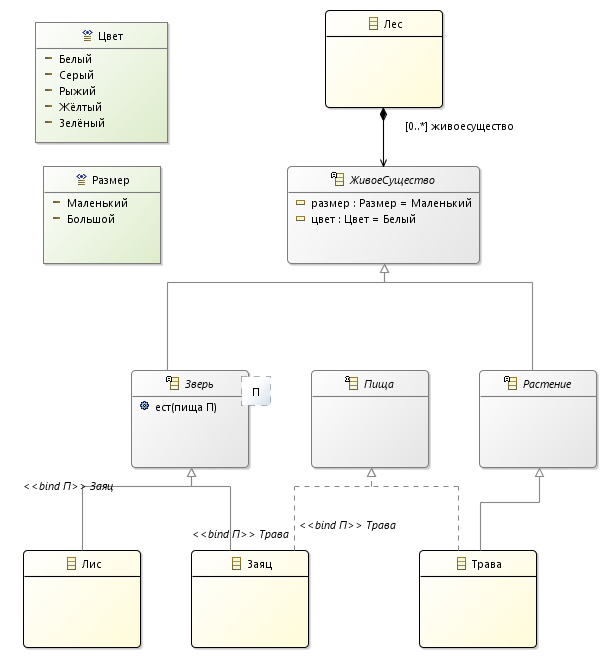
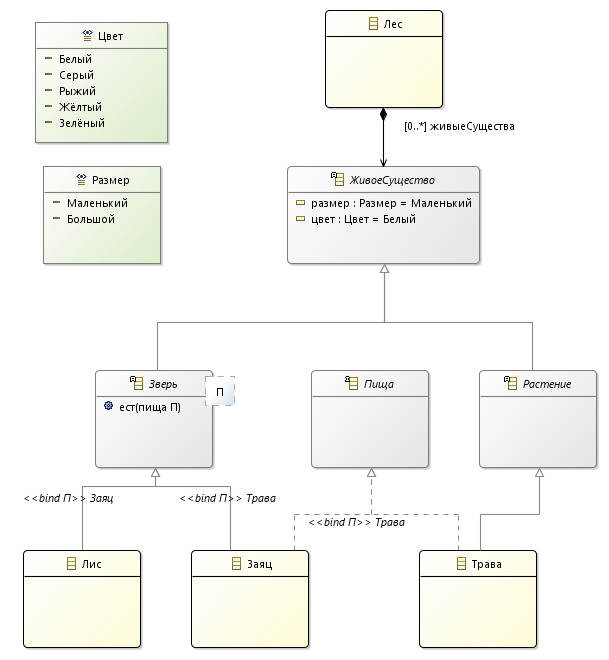
Разные улучшения.

diff --git a/org.nasdanika.nature/src/org/nasdanika/nature/impl/NaturePackageImpl.java b/org.nasdanika.nature/src/org/nasdanika/nature/impl/NaturePackageImpl.java
@@ -178,7 +178,7 @@ public class NaturePackageImpl extends EPackageImpl implements NaturePackage {
 	 * <!-- end-user-doc -->
 	 * @generated
 	 */
-	public EReference getЛес_Живоесущество() {
+	public EReference getЛес_ЖивыеСущества() {
 		return (EReference)лесEClass.getEStructuralFeatures().get(0);
 	}
 
@@ -319,7 +319,7 @@ public class NaturePackageImpl extends EPackageImpl implements NaturePackage {
 
 		// Create classes and their features
 		лесEClass = createEClass(ЛЕС);
-		createEReference(лесEClass, ЛЕС__ЖИВОЕСУЩЕСТВО);
+		createEReference(лесEClass, ЛЕС__ЖИВЫЕ_СУЩЕСТВА);
 
 		живоеСуществоEClass = createEClass(ЖИВОЕ_СУЩЕСТВО);
 		createEAttribute(живоеСуществоEClass, ЖИВОЕ_СУЩЕСТВО__РАЗМЕР);
@@ -391,7 +391,7 @@ public class NaturePackageImpl extends EPackageImpl implements NaturePackage {
 
 		// Initialize classes, features, and operations; add parameters
 		initEClass(лесEClass, Лес.class, "Лес", !IS_ABSTRACT, !IS_INTERFACE, IS_GENERATED_INSTANCE_CLASS);
-		initEReference(getЛес_Живоесущество(), this.getЖивоеСущество(), null, "живоесущество", null, 0, -1, Лес.class, !IS_TRANSIENT, !IS_VOLATILE, IS_CHANGEABLE, IS_COMPOSITE, !IS_RESOLVE_PROXIES, !IS_UNSETTABLE, IS_UNIQUE, !IS_DERIVED, IS_ORDERED);
+		initEReference(getЛес_ЖивыеСущества(), this.getЖивоеСущество(), null, "живыеСущества", null, 0, -1, Лес.class, !IS_TRANSIENT, !IS_VOLATILE, IS_CHANGEABLE, IS_COMPOSITE, !IS_RESOLVE_PROXIES, !IS_UNSETTABLE, IS_UNIQUE, !IS_DERIVED, IS_ORDERED);
 
 		initEClass(живоеСуществоEClass, ЖивоеСущество.class, "ЖивоеСущество", IS_ABSTRACT, !IS_INTERFACE, IS_GENERATED_INSTANCE_CLASS);
 		initEAttribute(getЖивоеСущество_Размер(), this.getРазмер(), "размер", null, 0, 1, ЖивоеСущество.class, !IS_TRANSIENT, !IS_VOLATILE, IS_CHANGEABLE, !IS_UNSETTABLE, !IS_ID, IS_UNIQUE, !IS_DERIVED, IS_ORDERED);
@@ -467,7 +467,7 @@ public class NaturePackageImpl extends EPackageImpl implements NaturePackage {
 			 "icon", "{{context-path}}/images/forest.png"
 		   });	
 		addAnnotation
-		  (getЛес_Живоесущество(), 
+		  (getЛес_ЖивыеСущества(), 
 		   source, 
 		   new String[] {
 			 "model-element-label", "\u0416\u0438\u0432\u044b\u0435 \u0441\u0443\u0449\u0435\u0441\u0442\u0432\u0430",

diff --git a/org.nasdanika.nature/src/org/nasdanika/nature/NaturePackage.java b/org.nasdanika.nature/src/org/nasdanika/nature/NaturePackage.java
@@ -69,13 +69,13 @@ public interface NaturePackage extends EPackage {
 	int ЛЕС = 0;
 
 	/**
-	 * The feature id for the '<em><b>Живоесущество</b></em>' containment reference list.
+	 * The feature id for the '<em><b>Живые Существа</b></em>' containment reference list.
 	 * <!-- begin-user-doc -->
 	 * <!-- end-user-doc -->
 	 * @generated
 	 * @ordered
 	 */
-	int ЛЕС__ЖИВОЕСУЩЕСТВО = 0;
+	int ЛЕС__ЖИВЫЕ_СУЩЕСТВА = 0;
 
 	/**
 	 * The number of structural features of the '<em>Лес</em>' class.
@@ -458,15 +458,15 @@ public interface NaturePackage extends EPackage {
 	EClass getЛес();
 
 	/**
-	 * Returns the meta object for the containment reference list '{@link org.nasdanika.nature.Лес#getЖивоесущество <em>Живоесущество</em>}'.
+	 * Returns the meta object for the containment reference list '{@link org.nasdanika.nature.Лес#getЖивыеСущества <em>Живые Существа</em>}'.
 	 * <!-- begin-user-doc -->
 	 * <!-- end-user-doc -->
-	 * @return the meta object for the containment reference list '<em>Живоесущество</em>'.
-	 * @see org.nasdanika.nature.Лес#getЖивоесущество()
+	 * @return the meta object for the containment reference list '<em>Живые Существа</em>'.
+	 * @see org.nasdanika.nature.Лес#getЖивыеСущества()
 	 * @see #getЛес()
 	 * @generated
 	 */
-	EReference getЛес_Живоесущество();
+	EReference getЛес_ЖивыеСущества();
 
 	/**
 	 * Returns the meta object for class '{@link org.nasdanika.nature.ЖивоеСущество <em>Живое Существо</em>}'.
@@ -624,12 +624,12 @@ public interface NaturePackage extends EPackage {
 		EClass ЛЕС = eINSTANCE.getЛес();
 
 		/**
-		 * The meta object literal for the '<em><b>Живоесущество</b></em>' containment reference list feature.
+		 * The meta object literal for the '<em><b>Живые Существа</b></em>' containment reference list feature.
 		 * <!-- begin-user-doc -->
 		 * <!-- end-user-doc -->
 		 * @generated
 		 */
-		EReference ЛЕС__ЖИВОЕСУЩЕСТВО = eINSTANCE.getЛес_Живоесущество();
+		EReference ЛЕС__ЖИВЫЕ_СУЩЕСТВА = eINSTANCE.getЛес_ЖивыеСущества();
 
 		/**
 		 * The meta object literal for the '{@link org.nasdanika.nature.impl.ЖивоеСуществоImpl <em>Живое Существо</em>}' class.

diff --git a/org.nasdanika.nature/src/org/nasdanika/nature/Лес.java b/org.nasdanika.nature/src/org/nasdanika/nature/Лес.java
@@ -19,7 +19,7 @@ import org.eclipse.emf.common.util.EList;
  * The following features are supported:
  * </p>
  * <ul>
- *   <li>{@link org.nasdanika.nature.Лес#getЖивоесущество <em>Живоесущество</em>}</li>
+ *   <li>{@link org.nasdanika.nature.Лес#getЖивыеСущества <em>Живые Существа</em>}</li>
  * </ul>
  *
  * @see org.nasdanika.nature.NaturePackage#getЛес()
@@ -29,20 +29,20 @@ import org.eclipse.emf.common.util.EList;
  */
 public interface Лес extends CDOObject {
 	/**
-	 * Returns the value of the '<em><b>Живоесущество</b></em>' containment reference list.
+	 * Returns the value of the '<em><b>Живые Существа</b></em>' containment reference list.
 	 * The list contents are of type {@link org.nasdanika.nature.ЖивоеСущество}.
 	 * <!-- begin-user-doc -->
 	 * <p>
-	 * If the meaning of the '<em>Живоесущество</em>' containment reference list isn't clear,
+	 * If the meaning of the '<em>Живые Существа</em>' containment reference list isn't clear,
 	 * there really should be more of a description here...
 	 * </p>
 	 * <!-- end-user-doc -->
-	 * @return the value of the '<em>Живоесущество</em>' containment reference list.
-	 * @see org.nasdanika.nature.NaturePackage#getЛес_Живоесущество()
+	 * @return the value of the '<em>Живые Существа</em>' containment reference list.
+	 * @see org.nasdanika.nature.NaturePackage#getЛес_ЖивыеСущества()
 	 * @model containment="true"
 	 *        annotation="org.nasdanika.cdo.web.render model-element-label='\u0416\u0438\u0432\u044b\u0435 \u0441\u0443\u0449\u0435\u0441\u0442\u0432\u0430' type-column='{{icon}} {{eclass-label}}'"
 	 * @generated
 	 */
-	EList<ЖивоеСущество> getЖивоесущество();
+	EList<ЖивоеСущество> getЖивыеСущества();
 
 } // Лес

diff --git a/org.nasdanika.nature.app/src/org/nasdanika/nature/app/ModelAsLanguage.java b/org.nasdanika.nature.app/src/org/nasdanika/nature/app/ModelAsLanguage.java
@@ -1,0 +1,39 @@
+package org.nasdanika.nature.app;
+
+import org.nasdanika.nature.NatureFactory;
+import org.nasdanika.nature.Заяц;
+import org.nasdanika.nature.Лес;
+import org.nasdanika.nature.Лис;
+import org.nasdanika.nature.Трава;
+import org.nasdanika.nature.Цвет;
+
+public class ModelAsLanguage {
+
+	public static void main(String[] args) {
+		
+		// Создать лес
+		Лес лес = NatureFactory.eINSTANCE.createЛес();
+				
+		// Создать в лесу зелёную траву
+		Трава трава = NatureFactory.eINSTANCE.createТрава();
+		трава.setЦвет(Цвет.ЗЕЛЁНЫЙ);
+		лес.getЖивыеСущества().add(трава);
+		
+		// Создать в лесу серого зайца
+		Заяц заяц = NatureFactory.eINSTANCE.createЗаяц();
+		заяц.setЦвет(Цвет.СЕРЫЙ);
+		лес.getЖивыеСущества().add(заяц);
+
+		// Создать в лесу рыжего лиса
+		Лис лис = NatureFactory.eINSTANCE.createЛис();
+		лис.setЦвет(Цвет.РЫЖИЙ);
+		лес.getЖивыеСущества().add(лис);
+		
+		// Заяц ест траву
+		заяц.ест(трава);
+		
+		// Лис ест зайца
+		лис.ест(заяц);
+	}
+
+}

diff --git a/org.nasdanika.nature/src/org/nasdanika/nature/impl/ЛесImpl.java b/org.nasdanika.nature/src/org/nasdanika/nature/impl/ЛесImpl.java
@@ -20,7 +20,7 @@ import org.nasdanika.nature.Лес;
  * The following features are implemented:
  * </p>
  * <ul>
- *   <li>{@link org.nasdanika.nature.impl.ЛесImpl#getЖивоесущество <em>Живоесущество</em>}</li>
+ *   <li>{@link org.nasdanika.nature.impl.ЛесImpl#getЖивыеСущества <em>Живые Существа</em>}</li>
  * </ul>
  *
  * @generated
@@ -61,8 +61,8 @@ public class ЛесImpl extends CDOObjectImpl implements Лес {
 	 * @generated
 	 */
 	@SuppressWarnings("unchecked")
-	public EList<ЖивоеСущество> getЖивоесущество() {
-		return (EList<ЖивоеСущество>)eGet(NaturePackage.Literals.ЛЕС__ЖИВОЕСУЩЕСТВО, true);
+	public EList<ЖивоеСущество> getЖивыеСущества() {
+		return (EList<ЖивоеСущество>)eGet(NaturePackage.Literals.ЛЕС__ЖИВЫЕ_СУЩЕСТВА, true);
 	}
 
 } //ЛесImpl
